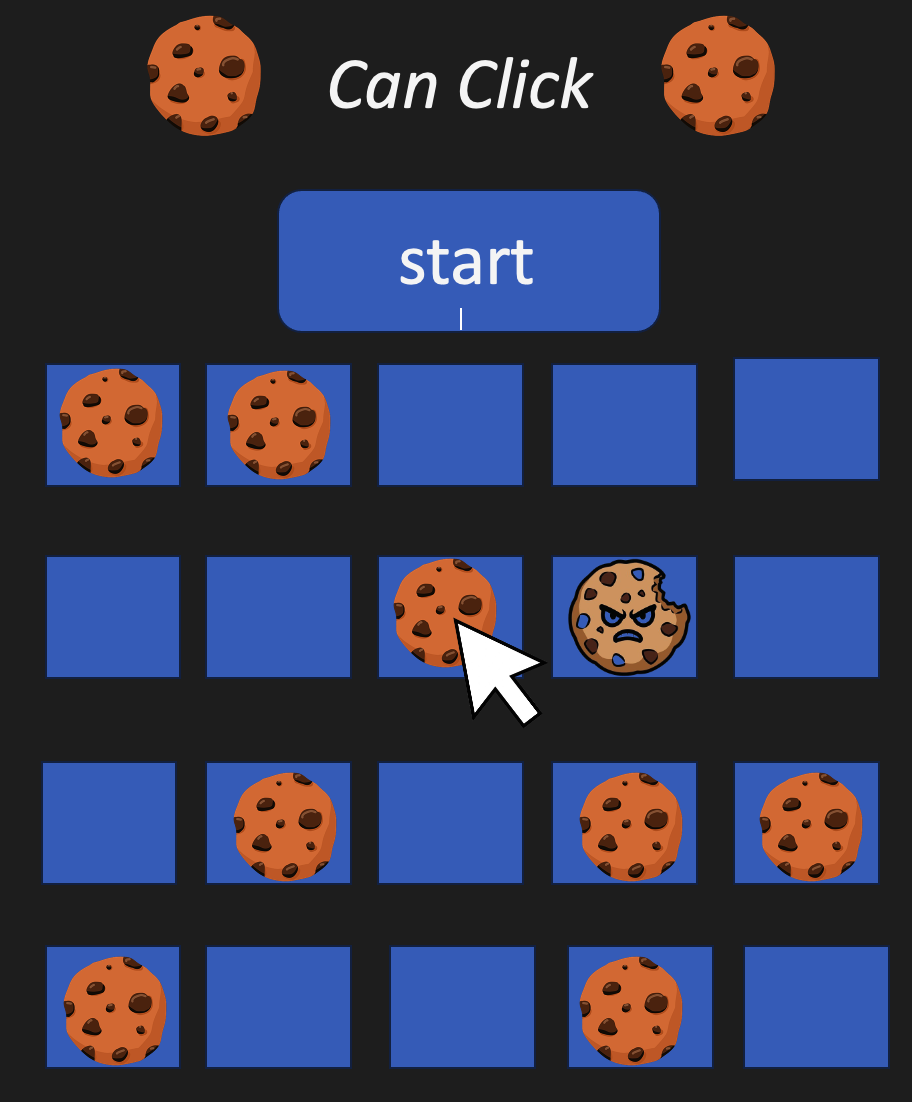
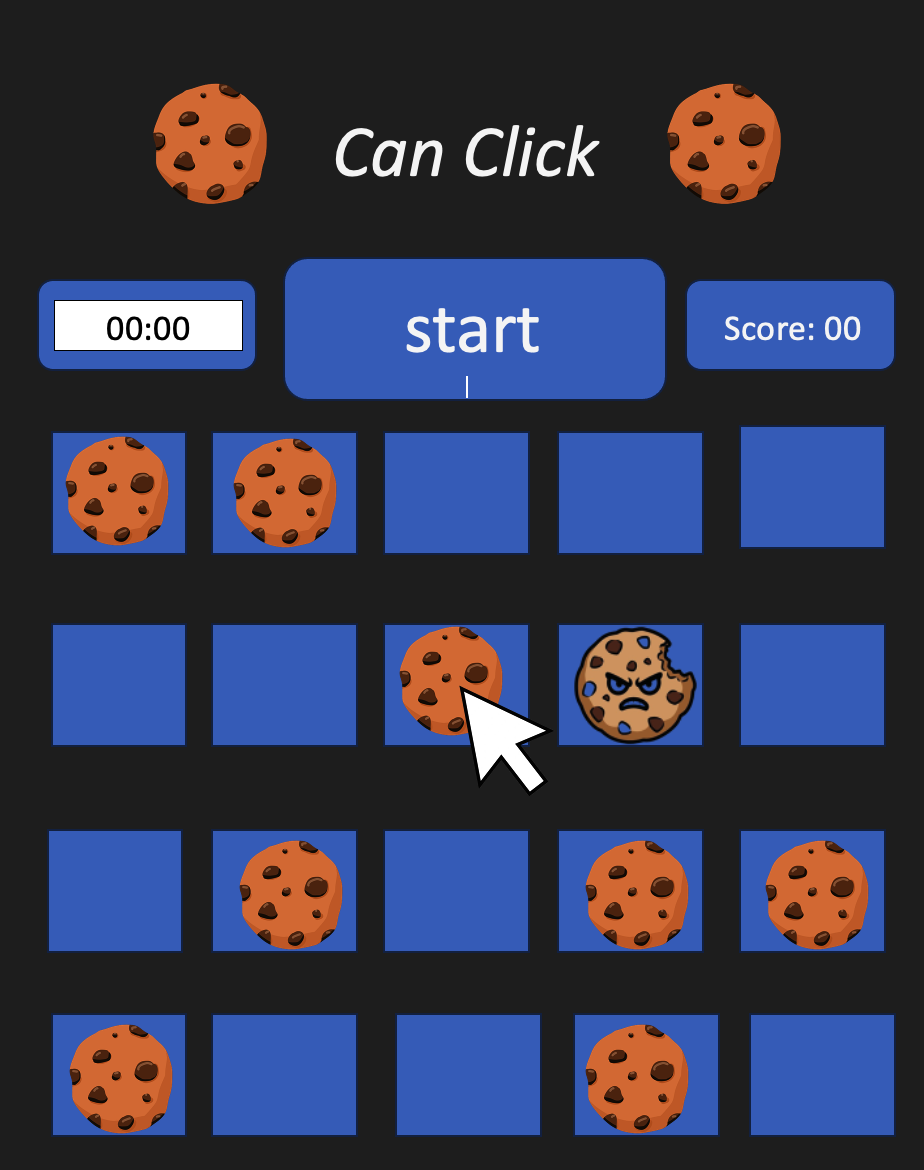
setup is done

diff --git a/README.md b/README.md
@@ -2,4 +2,10 @@
 
 ## By: fathy soliman
 
-## Date: Februruay 5th, 2026
+## Date: Feb 5th, 2026
+
+
+
+### Can Click is game that can click the correct cookies not angry cookie to get heigh score for short time, if click angry cookie the game is over and loss your score
+
+![img](./image/Game.png)
